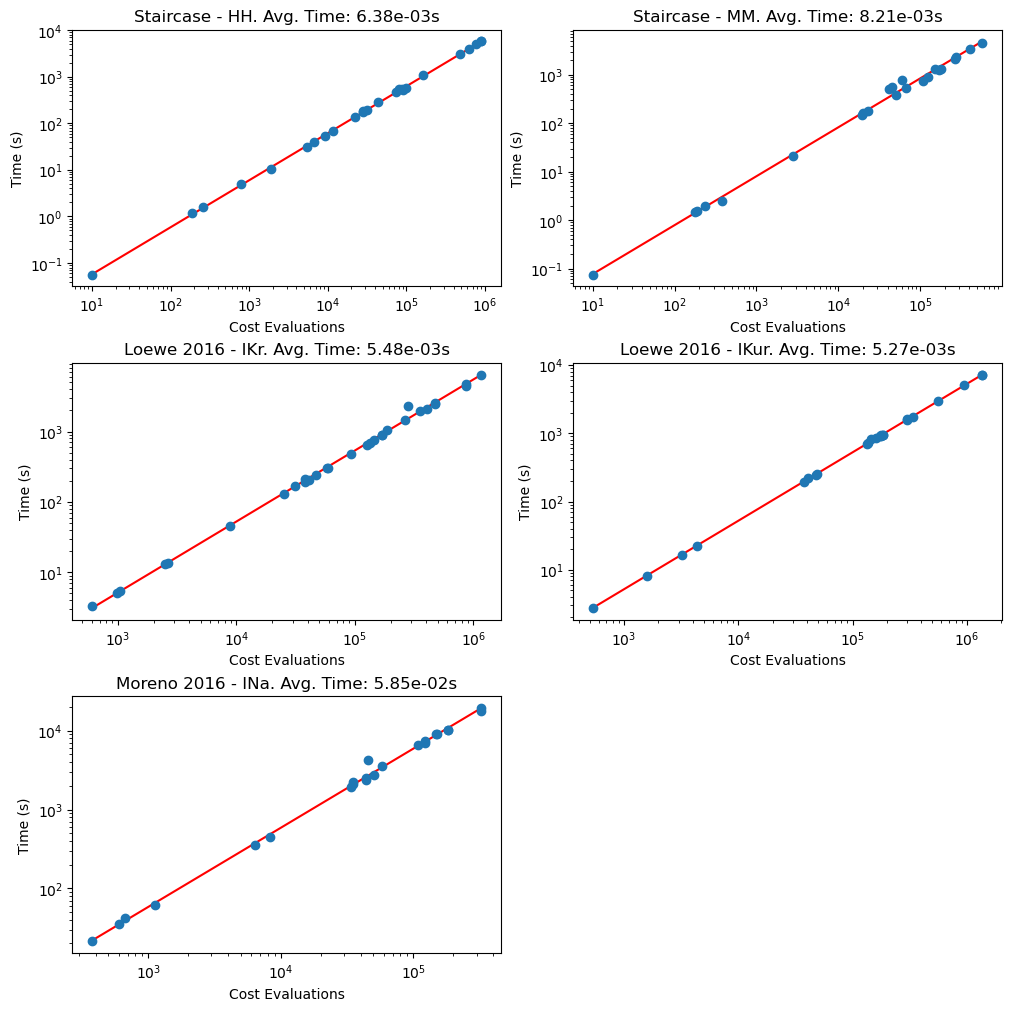
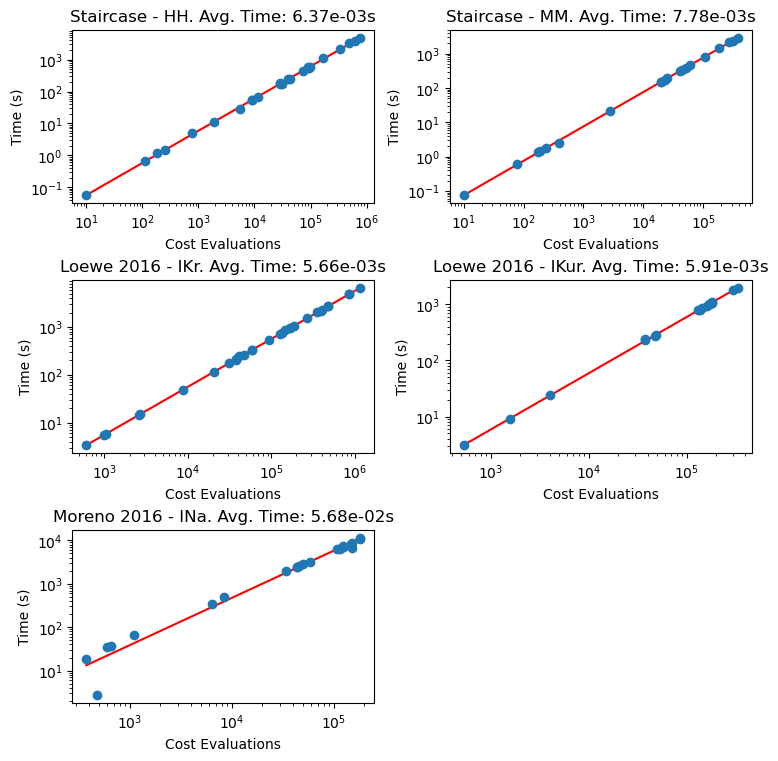
updated results figure to use FEs not time
removed failed plot

diff --git a/scripts/resultsFigures.py b/scripts/resultsFigures.py
@@ -20,11 +20,12 @@ def simplify_name(name):
     name = name.replace('patternSearch', 'Pattern Search')
     name = name.replace('randomSearch', 'Random Search')
     name = name.replace('stochasticSearch', 'Stochastic Search')
+    name = name.replace('curvilinearGD', 'Curvilinear GD')
     name = name.replace('slsqp', 'SLSQP')
     name = name.replace('conjugateGD', 'Conjugate GD')
     name = name.replace('cmaes', 'CMA-ES')
-    name = name.replace('hybridPSOTRRTRR', 'Hybrid PSO-TRR+TRR')
-    name = name.replace('hybridPSOTRR', 'Hybrid PSO-TRR')
+    name = name.replace('hybridPSOTRRTRR', 'Hybrid PSO/TRR+TRR')
+    name = name.replace('hybridPSOTRR', 'Hybrid PSO/TRR')
     name = name.replace('PSOTRR', 'PSO+TRR')
     name = name.replace('_', ' ')
     # Remove duplicate words (when paper name is in both optimiser and modification)
@@ -57,7 +58,7 @@ def success_plot(dfs, titles):
         A list of strings for the titles of the plots.
     """
     # Create subplot figure
-    fig, axs = plt.subplots(3, 2, figsize=(10, 10), layout='constrained')
+    fig, axs = plt.subplots(3, 2, figsize=(7.5, 8.5), layout='constrained')
     # Maximum number of successful approaches across the problems
     maxSuccess = np.max([len(df[df['Tier'] == 1]) for df in dfs])
     for i in range(len(dfs)):
@@ -67,7 +68,7 @@ def success_plot(dfs, titles):
         y = np.zeros(len(df))  # Expected time
         x = []  # Approach names
         for j in range(len(df)):
-            y[j] = df['Expected Time'][j]
+            y[j] = df['ERT - Evals'][j]
             x.append(simplify_name(df['Optimiser Name'][j] + ' - ' + df['Mod Name'][j]))
         # Bar chart plot
         axs[i // 2, i % 2].bar(np.arange(len(y)), y, tick_label=x, log=True, zorder=3)
@@ -80,71 +81,13 @@ def success_plot(dfs, titles):
         axs[i // 2, i % 2].set_xlim(-1, maxSuccess)
         # Set title and ylabel
         axs[i // 2, i % 2].title.set_text(title)
-        axs[i // 2, i % 2].set_ylabel('Expected Time (s)')
+        axs[i // 2, i % 2].set_ylabel('ERT (FEs)')
         # Add y-axis grid lines
         axs[i // 2, i % 2].yaxis.grid(True, zorder=0)
     # Remove sixth sub-figure
     axs[2, 1].remove()
-    plt.savefig(os.path.join(ionbench.ROOT_DIR, '..', 'scripts', 'figures', 'expectedTime.png'), bbox_inches='tight')
+    plt.savefig(os.path.join(ionbench.ROOT_DIR, '..', 'scripts', 'figures', 'expectedTime.png'), bbox_inches='tight', dpi=300)
     plt.show()
-
-
-# noinspection PyShadowingNames
-def fail_plot(dfs, titles):
-    """
-    Plot the expected time of failed optimisers.
-    Parameters
-    ----------
-    dfs : list
-        A list of pandas.DataFrame containing the optimiser run data to plot.
-    titles : list
-        A list of strings for the titles of the plots.
-    """
-    for i in range(len(dfs)):
-        df = dfs[i]
-        title = titles[i]
-        # Find optimal time and cutoff time
-        df2 = df[df['Tier'] == 1].reset_index()
-        optimalTime = np.min(df2['Expected Time'])
-        nRuns = 10
-        maxSuccessRate = 1-0.05**(1/nRuns)
-        cutoffTime = optimalTime*maxSuccessRate
-        # Create figure
-        plt.figure(figsize=(8, 8), layout='constrained', dpi=300)
-        # Get data, dropping SPSA for now while we decide how to time it
-        df = df[np.logical_and(df['Tier'] == 2, df['Mod Name'] != 'Maryak1998')].reset_index()
-        y = np.zeros(len(df))  # Expected cost
-        x = np.zeros(len(df))  # Expected time
-        names = []  # Approach names
-        for j in range(len(df)):
-            y[j] = df['Expected Cost'][j]
-            x[j] = df['Expected Time'][j]
-            names.append(simplify_name(df['Optimiser Name'][j] + ' \n ' + df['Mod Name'][j]))
-        # Scatter plot of cost vs time
-        plt.scatter(x, y, zorder=3)
-        # Cutoff-time line
-        plt.axvline(cutoffTime, color='k', linestyle='--', zorder=0)
-        # Log-log plot
-        axs = plt.gca()
-        axs.set_yscale('log')
-        axs.set_xscale('log')
-        # Round limits to nearest power of 10
-        tmp = axs.get_xlim()
-        axs.set_xlim(10 ** np.floor(np.log10(tmp[0])), 10 ** np.ceil(np.log10(tmp[1])))
-        tmp = axs.get_ylim()
-        axs.set_ylim(10 ** np.floor(np.log10(tmp[0])), 10 ** np.ceil(np.log10(tmp[1])))
-        # Add text labels and automatically adjust positions
-        texts = [plt.text(x[i], y[i], names[i], ha='center', va='center') for i in range(len(x))]
-        adjust_text(texts, arrowprops={'arrowstyle': '->', 'color': 'red'}, force_explode=(0.2, 0.3), force_static=(0.2, 0.3), force_text=(0.3, 0.3))
-        # Set title, ylabel and xlabel
-        axs.title.set_text(title)
-        axs.set_ylabel('Expected Cost')
-        axs.set_xlabel('Expected Time (s)')
-        # Add y-axis grid lines
-        axs.yaxis.grid(True, zorder=0)
-        # Save and show plot
-        plt.savefig(os.path.join(ionbench.ROOT_DIR, '..', 'scripts', 'figures', f'failed-{title.replace(" ", "").lower()}.png'), bbox_inches='tight')
-        plt.show()
 
 
 # noinspection PyShadowingNames
@@ -165,7 +108,7 @@ def time_plot(dfs, titles, solveType='Cost'):
     None.
     """
     # Setup subplot figure
-    fig, axs = plt.subplots(3, 2, figsize=(10, 10), layout='constrained')
+    fig, axs = plt.subplots(3, 2, figsize=(7.5, 7.5), layout='constrained')
     for i in range(len(dfs)):
         # Get problem specific data and axes
         df = dfs[i]
@@ -212,7 +155,7 @@ def time_plot(dfs, titles, solveType='Cost'):
     # Save and show plot
     plt.savefig(
         os.path.join(ionbench.ROOT_DIR, '..', 'scripts', 'figures', f'{solveType.lower()}Time.png'),
-        bbox_inches='tight')
+        bbox_inches='tight', dpi=300)
     plt.show()
 
 
@@ -220,8 +163,12 @@ bmShortNames = ['hh', 'mm', 'ikr', 'ikur', 'ina']
 titles = ['Staircase - HH', 'Staircase - MM', 'Loewe 2016 - IKr', 'Loewe 2016 - IKur', 'Moreno 2016 - INa']
 dfs = []
 for bmShortName in bmShortNames:
-    dfs.append(pandas.read_csv(f'resultsFile-{bmShortName}-sorted.csv'))
+    df = pandas.read_csv(f'resultsSummary-{bmShortName}.csv')
+    dfs.append(df)
 success_plot(dfs, titles)
-fail_plot(dfs, titles)
+
+dfs = []
+for bmShortName in bmShortNames:
+    dfs.append(pandas.read_csv(f'resultsFile-{bmShortName}.csv'))
 time_plot(dfs, titles)
 time_plot(dfs, titles, solveType='Grad')
